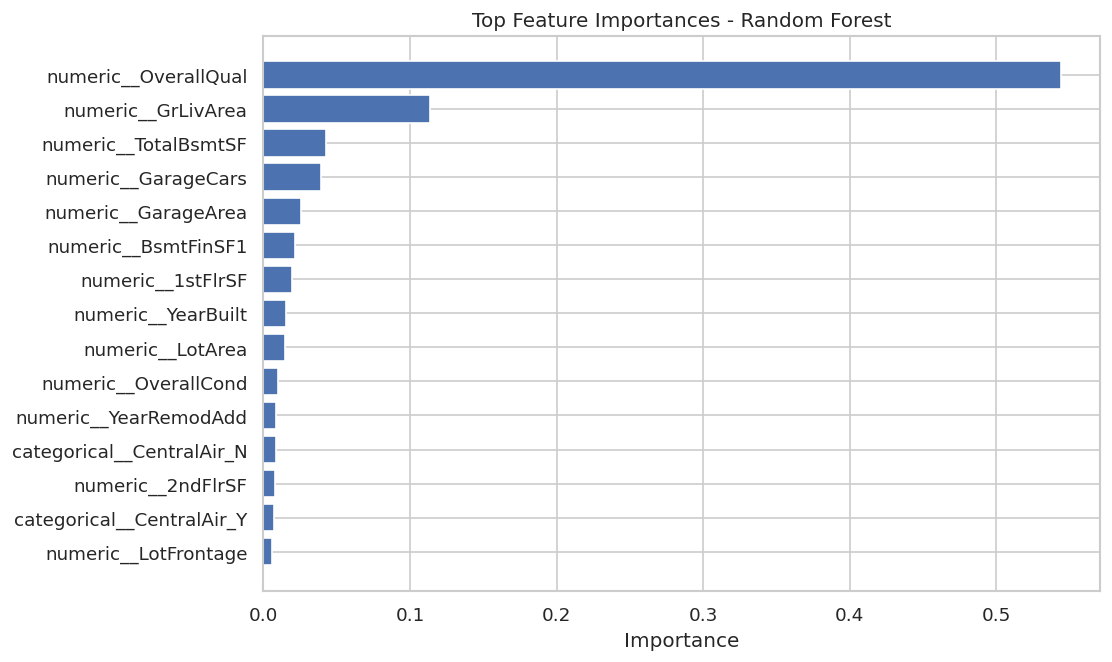
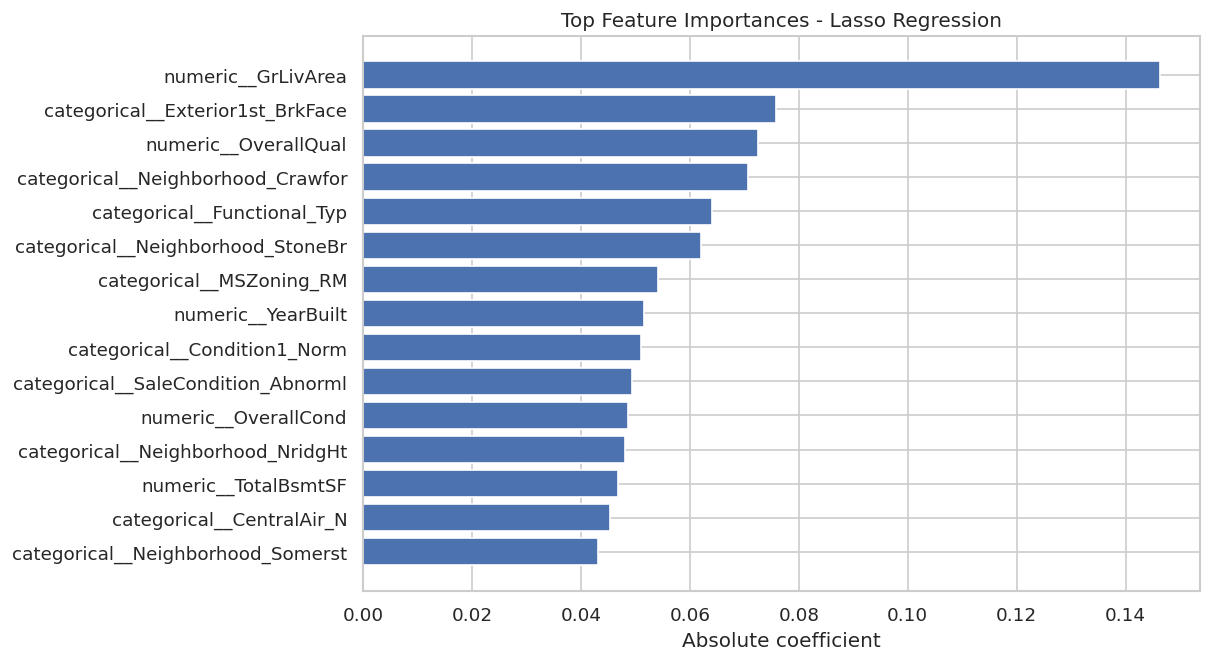
Select the model on MAE when R2 differences are inside the noise
The winner was whichever row sorted highest on R2. Across these four
models R2 spans 0.829-0.840 while varying by up to +/-0.17 between folds,
so that sort was ranking noise: it picked Random Forest over Lasso on a
0.004 lead against a 0.082 fold-to-fold spread, and shipped the model
with $2,900 more error per house.

Models within one standard error of the best R2 are now treated as tied
and separated on MAE, which is in dollars and is what the app's estimate
is judged on. All four tie here, so Lasso is selected.

The held-out set agrees: Lasso scores R2 0.914 / MAE $15,407 against
Random Forest's 0.890 / ~$17K, better on every metric on unseen data.

Two tests cover the rule -- a near-tie must break on MAE, and a model
genuinely outside one standard error must stay excluded even when its
MAE is lowest.

diff --git a/housing_price/pipeline.py b/housing_price/pipeline.py
@@ -2,7 +2,7 @@ import joblib
 
 from . import config, plots
 from .data import load_data, split_features_target, train_test_data
-from .evaluate import cross_validate_models, evaluate_on_test
+from .evaluate import cross_validate_models, evaluate_on_test, select_best_model
 from .models import get_models
 
 
@@ -10,7 +10,7 @@ def _fmt_money(x):
     return f"{config.CURRENCY}{x:,.0f}"
 
 
-def _write_results(cv_results, best_name, test_metrics, n_samples, n_features):
+def _write_results(cv_results, best_name, tied, test_metrics, n_samples, n_features):
     config.RESULTS_CSV.parent.mkdir(parents=True, exist_ok=True)
     cv_results.to_csv(config.RESULTS_CSV, index=False)
 
@@ -39,7 +39,18 @@ def _write_results(cv_results, best_name, test_metrics, n_samples, n_features):
 
     lines += [
         "",
-        f"**Best model:** {best_name}",
+        "### How the model was chosen",
+        "",
+        f"The top {len(tied)} models sit within one standard error of the best "
+        f"R² ({cv_results.iloc[0]['R2']:.3f} ± {cv_results.iloc[0]['R2_std']:.3f} "
+        f"across {config.CV_FOLDS} folds), so their R² ranking is inside the "
+        "fold-to-fold noise and does not identify a winner. They are treated as "
+        "tied and separated on MAE instead -- it is denominated in dollars, and "
+        "it is the error the app's estimate is actually judged on.",
+        "",
+        f"**Selected model:** {best_name} "
+        f"(lowest MAE among the tied models, "
+        f"{_fmt_money(tied.sort_values('MAE').iloc[0]['MAE'])})",
         "",
         "## Held-Out Test Performance",
         "",
@@ -60,8 +71,12 @@ def _write_results(cv_results, best_name, test_metrics, n_samples, n_features):
         "",
         "## Notes",
         "",
-        "- With 79 features and real missing values, the tree ensembles pull "
-        "ahead of the linear models here.",
+        "- No model separates from the others on R². The spread between the "
+        "best and worst is smaller than the spread across folds for any one of "
+        "them, so the ranking is not meaningful at this sample size.",
+        "- The regularised linear models give the lowest dollar error despite "
+        "not topping the R² table -- on this data the preprocessing matters "
+        "more than the choice of estimator.",
         "- Log-transforming the skewed target and imputing missing values are the "
         "two changes that matter most for accuracy.",
         "- `OverallQual` and `GrLivArea` are consistently the strongest predictors.",
@@ -85,9 +100,14 @@ def run():
     cv_results = cross_validate_models(models, X, y)
     print(cv_results[["Model", "R2", "RMSE", "MAE"]].to_string(index=False))
 
-    best_name = cv_results.iloc[0]["Model"]
+    best_name, tied = select_best_model(cv_results)
     best_model = models[best_name]
-    print(f"\nBest model: {best_name}")
+    if len(tied) > 1:
+        print(
+            f"\n{len(tied)} models tie on R2 (within one standard error of "
+            f"{cv_results.iloc[0]['R2']:.3f}); choosing on MAE."
+        )
+    print(f"Selected model: {best_name}")
 
     X_train, X_test, y_train, y_test = train_test_data(df)
     test_metrics = evaluate_on_test(best_model, X_train, y_train, X_test, y_test)
@@ -102,7 +122,7 @@ def run():
     plots.residual_plot(y_test, test_metrics["y_pred"], best_name)
     plots.feature_importance(best_model, best_name)
 
-    _write_results(cv_results, best_name, test_metrics, len(df), X.shape[1])
+    _write_results(cv_results, best_name, tied, test_metrics, len(df), X.shape[1])
 
     # refit the winner on all the data and save it for the Streamlit app
     final_model = get_models()[best_name]

diff --git a/tests/test_pipeline.py b/tests/test_pipeline.py
@@ -1,8 +1,13 @@
 import numpy as np
+import pandas as pd
 
 from housing_price import config
 from housing_price.data import load_data, split_features_target, train_test_data
-from housing_price.evaluate import cross_validate_models, evaluate_on_test
+from housing_price.evaluate import (
+    cross_validate_models,
+    evaluate_on_test,
+    select_best_model,
+)
 from housing_price.models import get_models
 
 
@@ -32,6 +37,34 @@ def test_models_produce_sensible_scores():
     results = cross_validate_models(get_models(), X, y)
     assert np.isfinite(results["R2"]).all()
     assert results["R2"].max() > 0.8
+
+
+def test_selection_breaks_r2_ties_on_mae():
+    # Two models a hair apart on R2, with a fold-to-fold spread far wider than
+    # that gap. The higher R2 must not win on its own -- the lower MAE should.
+    tie = pd.DataFrame(
+        [
+            {"Model": "Showy", "R2": 0.840, "R2_std": 0.080, "RMSE": 30_000, "MAE": 17_500},
+            {"Model": "Steady", "R2": 0.835, "R2_std": 0.150, "RMSE": 29_000, "MAE": 14_800},
+        ]
+    )
+    name, tied = select_best_model(tie)
+    assert name == "Steady"
+    assert len(tied) == 2
+
+
+def test_selection_respects_a_real_gap():
+    # A genuinely worse model, far outside one standard error, must be excluded
+    # even though its MAE is the lowest in the table.
+    gap = pd.DataFrame(
+        [
+            {"Model": "Good", "R2": 0.840, "R2_std": 0.010, "RMSE": 30_000, "MAE": 17_500},
+            {"Model": "Bad", "R2": 0.500, "R2_std": 0.010, "RMSE": 29_000, "MAE": 14_800},
+        ]
+    )
+    name, tied = select_best_model(gap)
+    assert name == "Good"
+    assert len(tied) == 1
 
 
 def test_held_out_evaluation_runs():

diff --git a/housing_price/evaluate.py b/housing_price/evaluate.py
@@ -32,6 +32,24 @@ def cross_validate_models(models, X, y):
     return pd.DataFrame(rows).sort_values("R2", ascending=False).reset_index(drop=True)
 
 
+def select_best_model(cv_results):
+    """Choose a model without over-reading small differences in R2.
+
+    R2 moves around a lot between folds here, and the gap between the top
+    models is smaller than that fold-to-fold spread -- so picking whichever
+    row sorts highest is mostly picking noise. Instead, treat every model
+    within one standard error of the best R2 as tied, and break the tie on
+    MAE, which is in dollars and is what the app's estimate is judged on.
+
+    Returns the winning model's name and the tied set it was chosen from.
+    """
+    best = cv_results.iloc[0]
+    std_error = best["R2_std"] / np.sqrt(config.CV_FOLDS)
+    tied = cv_results[cv_results["R2"] >= best["R2"] - std_error]
+    winner = tied.sort_values("MAE").iloc[0]
+    return winner["Model"], tied
+
+
 def evaluate_on_test(model, X_train, y_train, X_test, y_test):
     model.fit(X_train, y_train)
     y_pred = model.predict(X_test)

diff --git a/README.md b/README.md
@@ -23,8 +23,9 @@ describes 1,460 home sales in Ames, Iowa with **79 features** — lot size, livi
 area, quality ratings, year built, neighborhood, garage, basement, and dozens
 more, including real missing values. The goal is to predict the **sale price**.
 
-The project compares four regression models under identical, honest conditions
-and reports every error metric **in dollars** so the results are interpretable.
+The project compares four regression models under identical, honest conditions,
+reports every error metric **in dollars** so the results are interpretable, and
+refuses to pick a winner on a difference smaller than its own error bars.
 
 > **Dataset:** [House Prices: Advanced Regression Techniques (Kaggle / Ames, Iowa)](https://www.kaggle.com/c/house-prices-advanced-regression-techniques)
 
@@ -53,19 +54,32 @@ Five-fold cross-validation across all candidate models:
 
 | Model | R² | RMSE ($) | MAE ($) |
 |-------|-----|----------|---------|
-| **Random Forest** ⭐ | **0.840** | 30,667 | 17,697 |
-| Lasso Regression | 0.835 | 29,214 | 14,819 |
-| Gradient Boosting | 0.832 | 30,284 | 16,341 |
-| Ridge Regression | 0.829 | 29,529 | 15,089 |
+| Random Forest | 0.840 ± 0.082 | 30,667 | 17,697 |
+| **Lasso Regression** ⭐ | 0.835 ± 0.156 | 29,214 | **14,819** |
+| Gradient Boosting | 0.832 ± 0.131 | 30,284 | 16,341 |
+| Ridge Regression | 0.829 ± 0.168 | 29,529 | 15,089 |
 
-On the held-out 20% test set, the best model (**Random Forest**) scores
-**R² = 0.89**, **RMSE ≈ $29K**, **MAE ≈ $17K**.
+On the held-out 20% test set, the selected model (**Lasso Regression**) scores
+**R² = 0.914**, **RMSE = $25,638**, **MAE = $15,407**.
 
-**Key finding:** the tree ensembles come out on top, but the tuned linear models
-are close behind (and actually have the lowest MAE) — the signal in this data is
-strong enough that model choice matters less than getting the preprocessing
-right. `OverallQual` and `GrLivArea` are consistently the most influential
-features.
+### Why Lasso, when Random Forest has the higher R²
+
+Because that R² gap is not real. Random Forest leads by **0.004**, while R²
+swings by **±0.082** between folds — the lead is about 5% of the noise it is
+measured against. Sorting the table and taking the top row would be ranking
+random variation, so all four models are treated as tied on R² and separated on
+**MAE** instead: it is denominated in dollars, and it is the error a price
+estimate is actually judged on. On that metric Lasso is **~$2,900 per house**
+better than Random Forest, a gap roughly twice its own fold-to-fold spread.
+
+The held-out set backs this up. Random Forest scored R² 0.890 / MAE ~$17K there;
+Lasso scores **0.914 / $15,407** — better on every metric, on data neither model
+had seen. Picking on the R² column alone would have shipped the worse model.
+
+**Key finding:** no model separates from the others on R² at this sample size,
+and the regularised linear models give the lowest dollar error despite never
+topping that column — the preprocessing matters more than the estimator.
+`OverallQual` and `GrLivArea` are consistently the most influential features.
 
 <p>
   <img src="reports/figures/model_evaluation_plot.png" width="49%">
@@ -99,6 +113,9 @@ isn't there yet. It's deployed for free on Streamlit Community Cloud.
   ~260 encoded columns.
 - **Skew-aware target** — `SalePrice` is right-skewed, so models train on its log
   and predict back in dollars, keeping RMSE and MAE interpretable.
+- **Selection that survives its own error bars** — models within one standard
+  error of the best R² are treated as tied and separated on MAE, so a lead
+  smaller than the fold-to-fold noise never decides which model ships.
 - **Reproducible** — a fixed seed and a single `python main.py` regenerate every
   result, figure, and the saved model.
 

diff --git a/reports/results.md b/reports/results.md
@@ -14,15 +14,19 @@ Missing values are imputed and features scaled/one-hot encoded inside each CV fo
 | Gradient Boosting | 0.832 ± 0.131 | 30,284 | 16,341 |
 | Ridge Regression | 0.829 ± 0.168 | 29,529 | 15,089 |
 
-**Best model:** Random Forest
+### How the model was chosen
+
+The top 4 models sit within one standard error of the best R² (0.840 ± 0.082 across 5 folds), so their R² ranking is inside the fold-to-fold noise and does not identify a winner. They are treated as tied and separated on MAE instead -- it is denominated in dollars, and it is the error the app's estimate is actually judged on.
+
+**Selected model:** Lasso Regression (lowest MAE among the tied models, $14,819)
 
 ## Held-Out Test Performance
 
 Evaluated on the unseen 20% test split:
 
-- **R²:** 0.887
-- **RMSE:** $29,489
-- **MAE:** $17,355
+- **R²:** 0.914
+- **RMSE:** $25,638
+- **MAE:** $15,407
 
 ## Figures
 
@@ -35,6 +39,7 @@ Evaluated on the unseen 20% test split:
 
 ## Notes
 
-- With 79 features and real missing values, the tree ensembles pull ahead of the linear models here.
+- No model separates from the others on R². The spread between the best and worst is smaller than the spread across folds for any one of them, so the ranking is not meaningful at this sample size.
+- The regularised linear models give the lowest dollar error despite not topping the R² table -- on this data the preprocessing matters more than the choice of estimator.
 - Log-transforming the skewed target and imputing missing values are the two changes that matter most for accuracy.
 - `OverallQual` and `GrLivArea` are consistently the strongest predictors.
